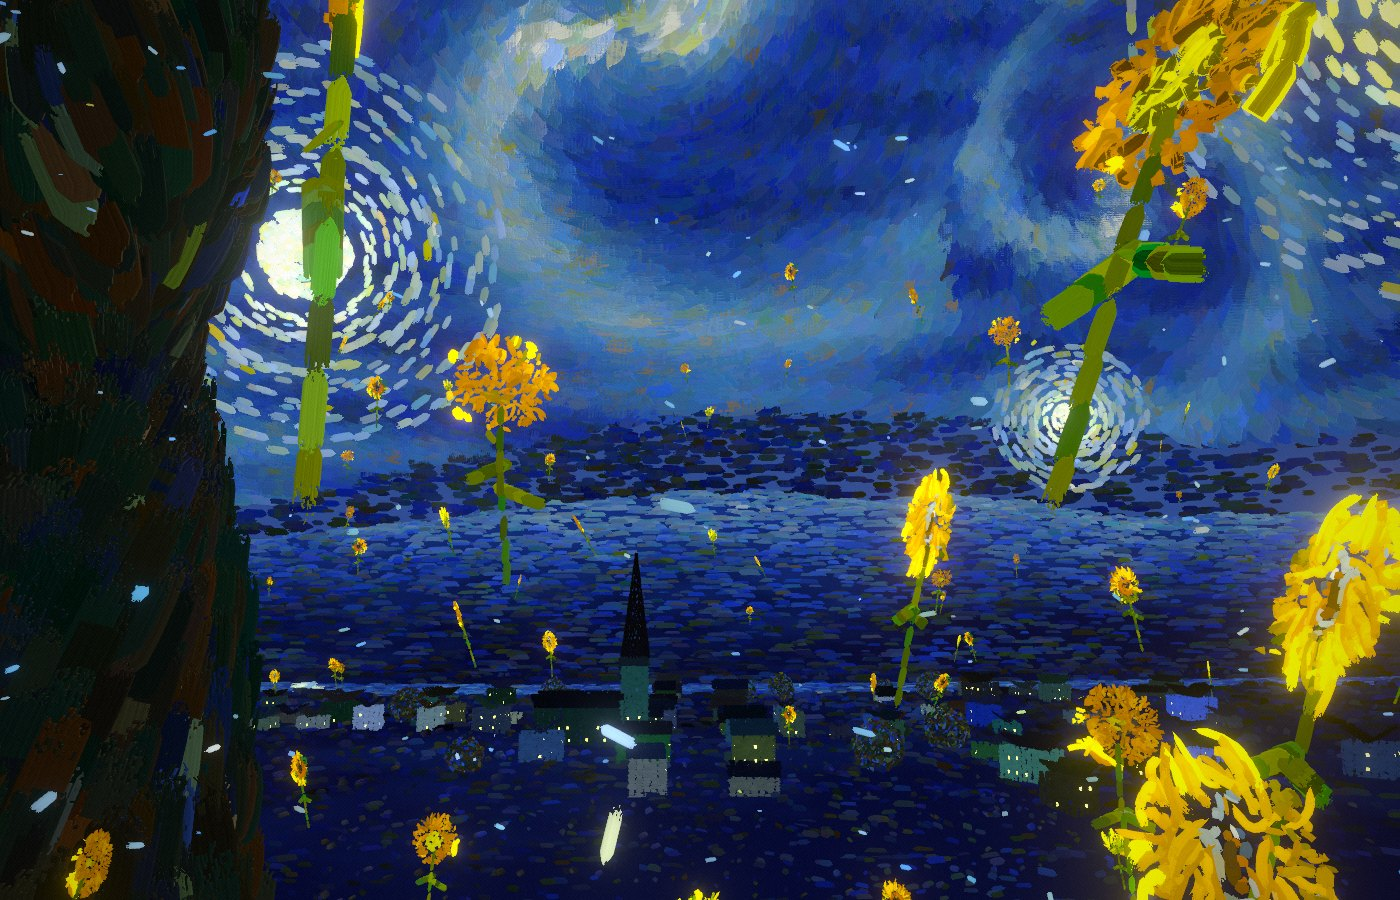
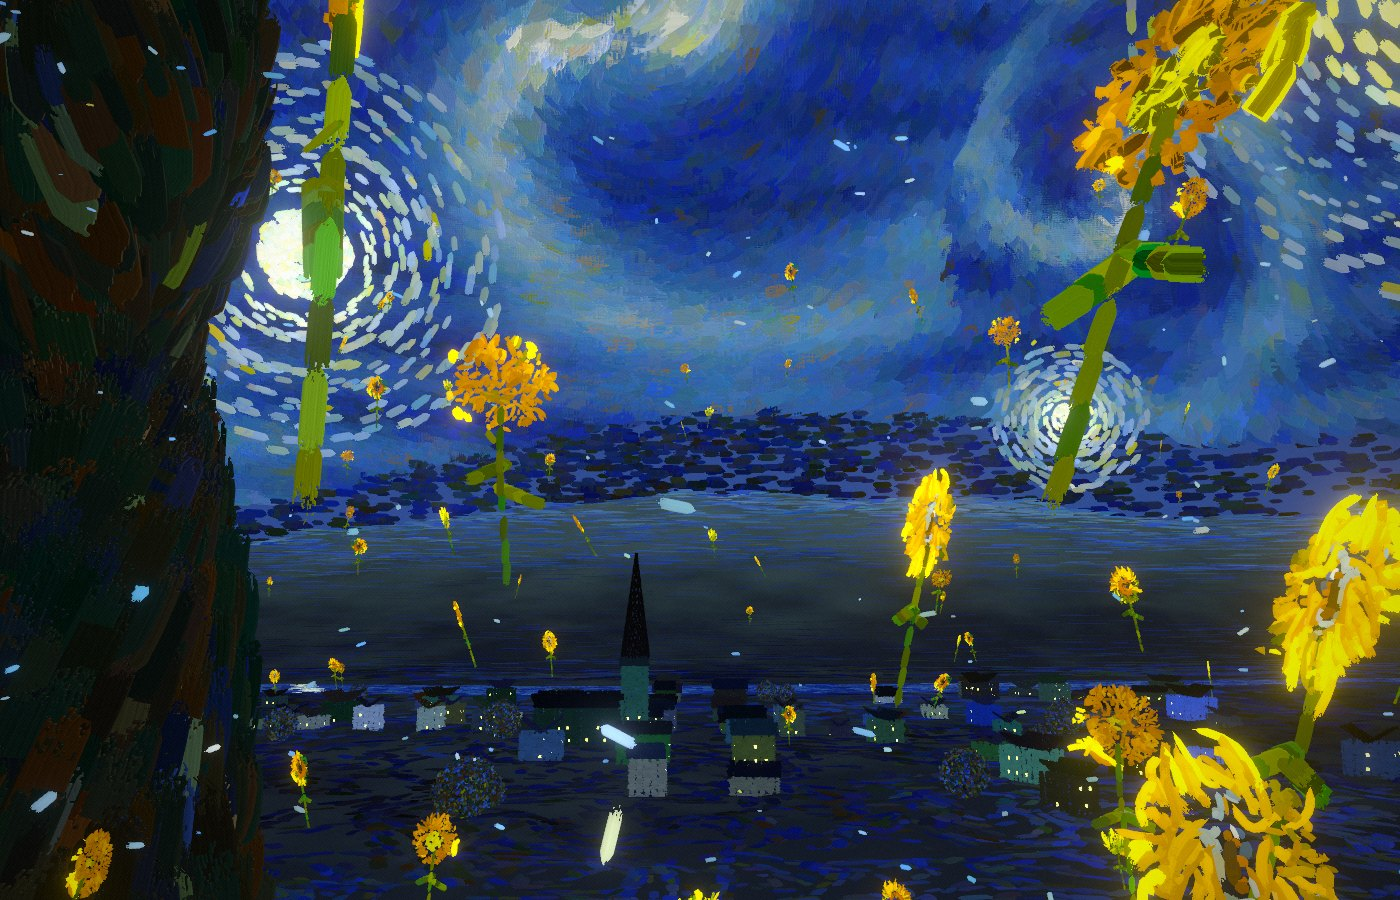
E0.1: the ground, aligned
The ground is chains of strokes laid end to end along the contours, one
colour a chain, bigger with distance, on a plane of their own colour; a
mesh may say its paint lies on a surface (uLie) so a ground stroke stays on
the ground near a standing eye instead of turning up as a plate. Frame
rates measured on a visible pane. On the author's word: align this.

diff --git a/src/world.js b/src/world.js
@@ -93,27 +93,43 @@ export function ground(x, z) {
 }
 const grad = (x, z) => [(ground(x + 1, z) - ground(x - 1, z)) / 2, (ground(x, z + 1) - ground(x, z - 1)) / 2];
 
-export function makeGround({ pools, n = 60000, seed = 11, centre = [0, 40], radius = 1300 }) {
+// the flow of the ground: along the contour where there is a slope, and along a slow field where it is flat
+function groundFlow(x, z) {
+  const g = grad(x, z), gl = Math.hypot(g[0], g[1]);
+  const fa = fbm2(x * 0.0025 + 9, z * 0.0025 + 2, 2) * 6.2832 * 2;
+  const k = smoothstep(0.015, 0.08, gl);
+  let t = [(-g[1] / (gl || 1)) * k + Math.cos(fa) * (1 - k), (g[0] / (gl || 1)) * k + Math.sin(fa) * (1 - k)];
+  const tl = Math.hypot(t[0], t[1]) || 1;
+  return [t[0] / tl, t[1] / tl];
+}
+// his hills are long strokes laid along their own contours, so ours are chains: a seed, and four or five strokes
+// end to end along the flow from it, one colour a chain with a little scatter, so that from the air the ground is
+// rolling bands of paint and not dots. The strokes lie on the ground (uLie), bigger the farther they are
+export function makeGround({ pools, n = 70000, seed = 11, centre = [0, 40], radius = 1300 }) {
   const R = rng(seed), rows = new Rows(n), P = pools.hills;
-  for (let i = 0; i < n; i++) {
-    const d = radius * Math.pow(R(), 0.9), a = R() * 6.2832;
-    const x = centre[0] + d * Math.sin(a), z = centre[1] - d * Math.cos(a);
-    const h = ground(x, z);
-    const rv = riverAt(x, z);
-    if (rv.d < RIVER_W * 0.5) continue;
-    const g = grad(x, z), gl = Math.hypot(g[0], g[1]);
-    // along the contour where the ground has a slope, along a slow field where it is flat
-    const fa = fbm2(x * 0.004 + 9, z * 0.004 + 2, 2) * 6.2832 * 2;
-    let t = gl > 0.02 ? [-g[1], 0, g[0]] : [Math.cos(fa), 0, Math.sin(fa)];
-    const tl = Math.hypot(t[0], t[2]) || 1; t = [t[0] / tl, 0, t[2] / tl];
-    if (R() < 0.5) t = [-t[0], 0, -t[2]];
-    const L = (0.7 + d / 48) * (0.7 + 0.7 * R()), w = L * (0.2 + 0.14 * R());
-    // brighter with height, brighter on the slopes that face the moon, darker in the valley
-    const lit = clamp(0.5 + 0.5 * (-g[0] * 0.6 - g[1] * 0.4) / Math.max(gl, 0.05) * smoothstep(0.02, 0.2, gl), 0, 1);
-    const q = clamp(0.18 + 0.55 * smoothstep(-2, 130, h) + 0.25 * (lit - 0.5) + 0.22 * (noise3(x * 0.03, 0, z * 0.03) - 0.5) + 0.12 * (R() - 0.5), 0, 0.999);
-    const c = jit(pick(P, q, R, 0.05), R, 0.06);
-    const n0 = [0, 1, 0];
-    rows.put([x, h + 0.25 + 0.05 * R(), z], t, n0, (R() - 0.5) * 0.12, L, w, 0.008, L * 0.08, c, 0, 0.22 + 0.34 * R(), R() * 6.2832, null, 0);
+  while (rows.n < n) {
+    const d = radius * Math.pow(R(), 1.55), a = R() * 6.2832;
+    let x = centre[0] + d * Math.sin(a), z = centre[1] - d * Math.cos(a);
+    const links = 3 + Math.floor(R() * 3), sgn = R() < 0.5 ? 1 : -1;
+    // one colour a chain: brighter with height, on the slopes that face the moon, and in slow bands across the ground
+    const h0 = ground(x, z), g0 = grad(x, z), gl0 = Math.hypot(g0[0], g0[1]);
+    const lit = clamp(0.5 + 0.5 * (-g0[0] * 0.6 - g0[1] * 0.4) / Math.max(gl0, 0.05) * smoothstep(0.02, 0.2, gl0), 0, 1);
+    const band = noise3(x * 0.012 + 5, 0, z * 0.012 + 1) - 0.5;
+    const q0 = clamp(0.2 + 0.5 * smoothstep(-2, 130, h0) + 0.22 * (lit - 0.5) + 0.36 * band, 0, 0.98);
+    for (let k = 0; k < links && rows.n < n; k++) {
+      const rv = riverAt(x, z);
+      if (rv.d < RIVER_W * 0.5) break;
+      const dd = Math.hypot(x - centre[0], z - centre[1]);
+      const f = groundFlow(x, z), t = [f[0] * sgn, 0, f[1] * sgn];
+      const L = (1.4 + dd / 24) * (0.75 + 0.5 * R()), w = L * (0.26 + 0.14 * R());
+      const h = ground(x, z);
+      const c = jit(pick(P, clamp(q0 + 0.06 * (R() - 0.5), 0, 0.99), R, 0.03), R, 0.07);
+      // the bow follows the turn of the flow ahead
+      const f2 = groundFlow(x + t[0] * L, z + t[2] * L);
+      const turn = (f[0] * f2[1] - f[1] * f2[0]) * sgn;
+      rows.put([x + t[0] * L * 0.5, h + 0.12 + 0.05 * R(), z + t[2] * L * 0.5], t, [-t[2], 0, t[0]], clamp(turn * 0.5, -0.2, 0.2), L, w, 0.008, L * 0.06, c, 0, 0.22 + 0.34 * R(), R() * 6.2832, null, 0);
+      x += t[0] * L * 0.92 + (R() - 0.5) * w * 0.5; z += t[2] * L * 0.92 + (R() - 0.5) * w * 0.5;
+    }
   }
   return rows.done();
 }
@@ -413,14 +429,14 @@ export function makeVillage({ pools, seed = 51, rev = 0.45 }) {
     if (houses.some(h => Math.hypot(h.x - x, h.z - z) < h.w * 0.7 + r)) continue;
     trees.push([x, z, r]);
     const y0 = ground(x, z) + r * 0.9;
-    const cnt = Math.floor(r * r * 14);
+    const cnt = Math.floor(r * r * 40);
     for (let k = 0; k < cnt; k++) {
       const th = Math.acos(1 - 2 * rr()), ph = rr() * 6.2832;
       const d = [Math.sin(th) * Math.cos(ph), Math.cos(th), Math.sin(th) * Math.sin(ph)];
       const p = [x + d[0] * r * (0.75 + 0.3 * rr()), y0 + d[1] * r * (0.75 + 0.3 * rr()), z + d[2] * r * (0.75 + 0.3 * rr())];
       const t = norm3(cross3(d, [rr() - 0.5, rr() - 0.5, rr() - 0.5]));
-      const L = 0.9 + 1.2 * rr();
-      rows.put(p, t, d, (rr() - 0.5) * 0.2, L, L * 0.32, 0.006, L * 0.1, jit(pick(pools.cypress, 0.45 + 0.5 * rr(), rr), rr, 0.1), 0, rev + 0.15 + 0.1 * rr(), rr() * 6.2832, null, 0);
+      const L = 0.45 + 0.7 * rr();
+      rows.put(p, t, d, (rr() - 0.5) * 0.2, L, L * 0.36, 0.006, L * 0.1, jit(pick(pools.cypress, 0.45 + 0.5 * rr(), rr), rr, 0.1), 0, rev + 0.15 + 0.1 * rr(), rr() * 6.2832, null, 0);
     }
     // and a trunk
     for (let k = 0; k < 4; k++) rows.put([x + (rr() - 0.5) * 0.3, ground(x, z) + 0.5 + k * 0.5, z + (rr() - 0.5) * 0.3], [0.05, 1, 0.02], [1, 0, 0], 0, 0.9, 0.35, 0.006, 0.02, pick(pools.cypress, 0.1, rr), 0, rev + 0.15, rr() * 6.2832, null, 0);

diff --git a/src/paint.js b/src/paint.js
@@ -30,7 +30,8 @@ const VERT = /* glsl */`
   attribute vec3 iP0, iP1, iP2;
   attribute vec4 iSize, iCol, iMeta, iSpin;
   uniform vec3 uCam, uHead, uEye, uSpinC;
-  uniform float uTime, uCurl, uPart, uPartA, uPartB, uReveal, uFocalPx, uWrap, uWrapY, uWrapLow, uWrapHigh, uUnder, uSway;
+  uniform float uTime, uCurl, uPart, uPartA, uPartB, uReveal, uFocalPx, uWrap, uWrapY, uWrapLow, uWrapHigh, uUnder, uSway, uLie;
+  uniform vec3 uUp;
   varying vec2 vST; varying vec3 vCol, vP, vT, vB, vN; varying float vRow, vEmit, vBig, vUnder;
   vec3 spin(vec3 p, vec3 k, float a) {
     vec3 q = p - uSpinC;
@@ -90,12 +91,15 @@ const VERT = /* glsl */`
       }
     }
     vec3 E = normalize(uCam - pos);
-    vec3 S = normalize(cross(tan, E) + vec3(0.0, 1e-5, 0.0));
+    // the face turns to the eye about its own tangent -- or, for paint that lies on a surface (uLie), it lies
+    // there: its width runs across the tangent in the surface, and a stroke on the ground stays on the ground
+    // instead of standing up as a plate when you are near it
+    vec3 S = normalize(mix(cross(tan, E), cross(tan, uUp), uLie) + vec3(0.0, 1e-5, 0.0));
     vec3 N = cross(S, tan);
     float taper = sqrt(max(0.0, 1.0 - pow(abs(2.0 * aUV.x - 1.0), 6.0)));
     vec3 p = pos + S * aUV.y * 0.5 * wid * (aUV.z > 0.5 ? 0.62 : 1.0) * (0.3 + 0.7 * taper);
     gl_Position = projectionMatrix * viewMatrix * vec4(p, 1.0);
-    vBig = smoothstep(30.0, 140.0, wid * uFocalPx / max(length(uCam - pos), 1.0));
+    vBig = smoothstep(70.0, 420.0, wid * uFocalPx / max(length(uCam - pos), 1.0));
     vUnder = aUV.z;
     vST = vec2(aUV.x, aUV.y); vRow = iSize.z; vCol = iCol.rgb; vEmit = iCol.w; vP = p; vT = tan; vB = S; vN = N;
   }
@@ -109,7 +113,7 @@ const FRAG = /* glsl */`
   void main() {
     vec4 br = brush(vST, vRow);
     float soft = texture2D(uBrush, brushUV(vST, vRow), 2.5 * vBig).g;
-    float a = mix(smoothstep(0.18, 0.46, br.g), smoothstep(0.05, 0.3, soft), vBig);
+    float a = mix(smoothstep(0.18, 0.46, br.g), smoothstep(0.05, 0.3, soft), 0.6 * vBig);
     if (a < 0.02) discard;
     vec3 nt = brushNormal(vST, vRow, br.r, 2.2);
     vec3 N = normalize(vT * nt.x + vB * nt.y + vN * nt.z);
@@ -120,7 +124,7 @@ const FRAG = /* glsl */`
     float relief = dot(N, uKeyDir) - dot(normalize(vN), uKeyDir);
     vec3 H = normalize(uKeyDir + V);
     float sp = pow(max(dot(N, H), 0.0), 30.0);
-    vec3 c = alb * (1.0 + 0.5 * relief) + uKeyCol * sp * 0.05 * br.r;
+    vec3 c = alb * (1.0 + (0.5 + 0.5 * vBig) * relief) + uKeyCol * sp * 0.05 * br.r;
     c += alb * vEmit * uGlow * (0.6 + 0.8 * br.r);
     if (vUnder > 0.5) c = alb * 0.3 * (0.7 + 0.5 * br.b);
     c *= exp(-length(vP - uCam) * uDark);
@@ -138,7 +142,7 @@ export class Paint {
     add('iSpin', ex.spin || new Float32Array(ex.n * 4), 4);
     g.instanceCount = ex.n;
     this.u = { ...U, uReveal: { value: 2 }, uWrap: { value: 0 }, uWrapY: { value: 1 }, uWrapLow: { value: -1e9 }, uWrapHigh: { value: 1e9 },
-               uSpinC: { value: new THREE.Vector3() }, uSway: { value: 0 }, uTint: { value: new THREE.Vector3(1, 1, 1) },
+               uSpinC: { value: new THREE.Vector3() }, uSway: { value: 0 }, uLie: { value: 0 }, uUp: { value: new THREE.Vector3(0, 1, 0) }, uTint: { value: new THREE.Vector3(1, 1, 1) },
                uEye: { value: new THREE.Vector3(0, 30, 0) }, ...(ov || {}) };
     this.mesh = new THREE.Mesh(g, new THREE.ShaderMaterial({ vertexShader: VERT, fragmentShader: FRAG, uniforms: this.u,
       side: THREE.DoubleSide, alphaToCoverage: true }));

diff --git a/src/main.js b/src/main.js
@@ -87,9 +87,9 @@ async function boot() {
   const his = await W.loadHisColours();
   const pools = his.pools;
   const at = (pool, q) => pool[clamp(Math.floor(q * pool.length), 0, pool.length - 1)];
-  const skyLow = at(pools.sky, 0.12), skyMid = at(pools.sky, 0.3), hillLow = at(pools.hills, 0.08), hillHigh = at(pools.hills, 0.45);
+  const skyLow = at(pools.sky, 0.12), skyMid = at(pools.sky, 0.3), hillLow = at(pools.hills, 0.2), hillHigh = at(pools.hills, 0.6);
   const domeU = { uZen: { value: new THREE.Color(...skyLow.map(c => c * 0.7)) }, uHor: { value: new THREE.Color(...skyMid.map(c => c * 0.9)) },
-                  uGround: { value: new THREE.Color(...hillLow.map(c => c * 0.8)) } };
+                  uGround: { value: new THREE.Color(...at(pools.hills, 0.08).map(c => c * 0.8)) } };
   const dome = new THREE.Mesh(new THREE.SphereGeometry(1, 48, 32), new THREE.ShaderMaterial({ vertexShader: DOME_VERT, fragmentShader: DOME_FRAG,
     uniforms: domeU, side: THREE.BackSide, depthTest: false, depthWrite: false }));
   dome.frustumCulled = false; dome.renderOrder = -10;
@@ -101,7 +101,7 @@ async function boot() {
   const landG = new THREE.PlaneGeometry(SIZE, SIZE, SEGS, SEGS);
   landG.rotateX(-Math.PI / 2);
   { const p = landG.attributes.position; for (let i = 0; i < p.count; i++) p.setY(i, W.ground(p.getX(i), p.getZ(i))); p.needsUpdate = true; }
-  const landU = { uLow: { value: new THREE.Color(...hillLow.map(c => c * 0.85)) }, uHigh: { value: new THREE.Color(...hillHigh.map(c => c * 0.9)) }, uCam: U.uCam, uDark: U.uDark };
+  const landU = { uLow: { value: new THREE.Color(...hillLow.map(c => c * 0.95)) }, uHigh: { value: new THREE.Color(...hillHigh.map(c => c * 0.95)) }, uCam: U.uCam, uDark: U.uDark };
   const land = new THREE.Mesh(landG, new THREE.ShaderMaterial({ vertexShader: LAND_VERT, fragmentShader: LAND_FRAG, uniforms: landU }));
   land.frustumCulled = false;
   scene.add(land);
@@ -142,9 +142,9 @@ async function boot() {
   const sky = add('sky', W.makeSky({ pools, n: Math.round(+(Q.get('sky') ?? 1) * 120000), ridge }), { uEye: { value: new THREE.Vector3(0, 0, 0) } });
   const stars = add('stars', W.makeStars({ pools }), { uEye: { value: new THREE.Vector3(0, 0, 0) } });
   say('Laying the ground');
-  add('ground', W.makeGround({ pools, n: Math.round(+(Q.get('ground') ?? 1) * 60000) }), { uEye: { value: eyeAt.clone() } });
+  add('ground', W.makeGround({ pools, n: Math.round(+(Q.get('ground') ?? 1) * 70000) }), { uEye: { value: eyeAt.clone() }, uLie: { value: 1 } });
   const lights = W.STARS.filter(s => s.el < 32).map(s => ({ az: s.az, s: s.s })).concat([{ az: W.MOON.az, s: 2.2, moon: true }]);
-  add('river', W.makeRiver({ pools, lights }), { uEye: { value: eyeAt.clone() } });
+  add('river', W.makeRiver({ pools, lights }), { uEye: { value: eyeAt.clone() }, uLie: { value: 1 } });
   say('Building the village');
   const village = W.makeVillage({ pools });
   add('village', village, { uEye: { value: eyeAt.clone() } });

diff --git a/BUILD.md b/BUILD.md
@@ -1843,12 +1843,6 @@ count of non-finite values in every instance buffer is cheap and the harness sho
 
 **Still visible.**
 
-- **The ground from the air is confetti.** Strokes lie flat on a heightfield; from 100 m up they are dots on a
-  dark plane and not a rolling hill. His hills are drawn with long strokes along the contours; ours are, but too
-  short at that distance. A number to sweep: the ground stroke's length against its distance.
-- **Up close, a stroke is a slab.** From the street a tree's strokes and the ground's are flat plates the size of a
-  door; the brush print goes soft past a hand's breadth of pixels (`vBig`), which was made for his paint seen at
-  a metre and not for ours at a footstep. Standing eyes are D6's.
 - **The village walls are a mixture.** His village colours run from near-black to warm ochre and the walls take
   the whole range house by house; at 200 m it reads as a village, at 20 m as boxes of dashes. Doors, streets and
   a square are not built.
@@ -1858,3 +1852,38 @@ count of non-finite values in every instance buffer is cheap and the harness sho
 - **The sunflowers in the air have stems**, which the author may not want on a thing that floats.
 - **The river is seen from the knoll only as a band** 330 m off; from the air it is a river. The columns of gold
   under the stars are fixed on the water and not laid from the eye, as the Rhone's were in D3.
+
+### E0.1 — The ground, aligned  *(the author's word: "align this"; the same day)*
+
+Two of E0's *still visible* were the author's to send back, and were sent back the same evening.
+
+**The ground from the air was dots.** Three causes, each fixed. (1) The strokes were laid one by one at random
+places; his hills are long strokes laid *along* the contours, end to end. Now a chain: a seed, then three to five
+strokes each placed at the end of the last along the flow of the ground (`groundFlow`: the contour where there is
+a slope, a slow field where it is flat), bowed by the turn of the flow ahead, one colour a chain so that the chain
+is a band and the bands lie in slow noise across the ground. (2) They were too small at a distance: a stroke is
+now 1.4 m plus a twenty-fourth of its distance, and the seeds are drawn toward the eye (`d = R·u^1.55`) so that
+the carpet is solid at a footstep and still covers at the horizon. (3) The plane under them was darker than the
+paint on it, so every gap was a dot; it now takes the strokes' own middle colours.
+
+**Up close a stroke was a slab**, and the cause was not the brush: every stroke turns its face to the eye about its
+own tangent, which is right for paint in the air and wrong for paint on the ground -- a stroke on the ground two
+metres from a standing eye turned up to face it and stood there as a plate. `uLie` in `src/paint.js`: a mesh may
+say its paint lies on a surface, and then its width runs across the tangent in that surface and it stays there.
+The ground and the river lie. The brush's soft mode for big strokes (`vBig`) is also moved out, from 30--140 px
+to 70--420, and only goes six tenths of the way soft, with the relief deepened as it does, so that a stroke seen
+large keeps its bristles. The trees' dabs were halved and doubled.
+
+**Measured**, on the real GPU pane, visible this time, at dpr 1.5, 347,063 strokes:
+
+| where | fps |
+|---|---|
+| the knoll, cold | 75 |
+| over the village, 95 m up | 88 |
+| standing on the slope, 12 m up | 112 |
+| from the hills, 260 m up, the whole valley | 97 |
+
+**Pictures.** `e0-standpoint`, `e0-over-the-village` and `e0-in-the-street` re-taken; `e0-from-the-hills` added.
+
+**Still visible**, as before: the village walls are a mixture; the cypress is a tower with licks; the sunflowers
+in the air have stems; the river's columns are fixed on the water; the flowers are 150 draw calls.
